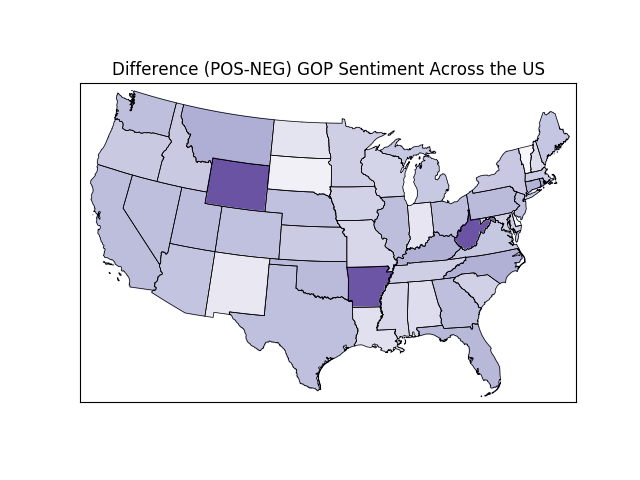
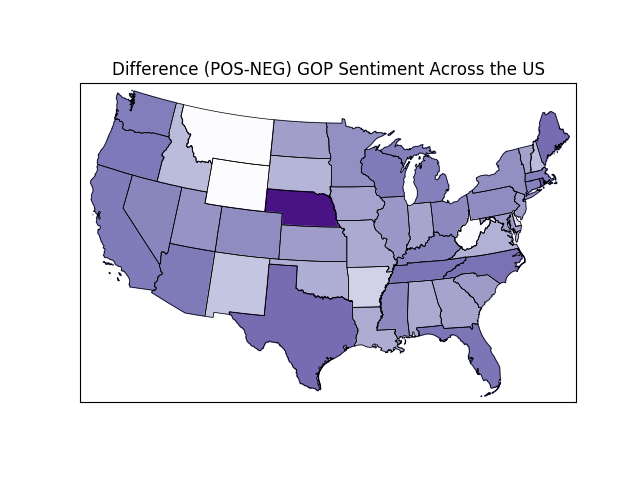
variable names for each df

Changed region(s): [[0.125, 0.1875, 0.9062, 0.8125]]

diff --git a/B/script.py b/B/script.py
@@ -139,7 +139,7 @@ df8 = df8.withColumnRenamed('state', 'author_flair_text')
 df8 = df8.withColumnRenamed('score', 'story_score')
 
 # TASK 9
-df8 = df8.where(df8["body"][0:3] != "&gt")
+df8 = df8.where(df8["body"][0:3] != ">")
 df8 = df8.where(df8["body"].contains("/s") == False)
 
 # Repeat task 4, 5 and 6A
@@ -179,62 +179,78 @@ sample.write.parquet('sample-final.parquet')
 task10_df = sqlContext.read.parquet("final.parquet")
 
 #dem
-#task10_df = sqlContext.read.parquet("final_dem.parquet")
+task10_df_dem = sqlContext.read.parquet("final_dem.parquet")
 
 #gop
-#task10_df = sqlContext.read.parquet("final_gop.parquet")
+task10_df_gop = sqlContext.read.parquet("final_gop.parquet")
 
 sqlContext.registerDataFrameAsTable(task10_df, "task10")
+sqlContext.registerDataFrameAsTable(task10_df_dem, "task10_dem")
+sqlContext.registerDataFrameAsTable(task10_df_gop, "task10_gop")
 
 part_a = sqlContext.sql('select 100*avg(pos) as Positive, 100*avg(neg) as Negative from task10')
+part_a_dem = sqlContext.sql('select 100*avg(pos) as Positive, 100*avg(neg) as Negative from task10_dem')
+part_a_gop = sqlContext.sql('select 100*avg(pos) as Positive, 100*avg(neg) as Negative from task10_gop')
+
 part_a.repartition(1).write.format("com.databricks.spark.csv").option("header", "true").save("task10_part_a.csv")
+part_a_dem.repartition(1).write.format("com.databricks.spark.csv").option("header", "true").save("dem_a.csv")
+part_a_gop.repartition(1).write.format("com.databricks.spark.csv").option("header", "true").save("gop_a.csv")
 
-#dem
-#part_a.repartition(1).write.format("com.databricks.spark.csv").option("header", "true").save("dem_a.csv")
-
-#gop
-#part_a.repartition(1).write.format("com.databricks.spark.csv").option("header", "true").save("gop_a.csv")
-
+#djt
 part_b= sqlContext.sql('select avg(pos) as Positive, avg(neg) as Negative, DATE(FROM_UNIXTIME(created_utc)) as date from task10 group by date ORDER BY date')
-part_b.repartition(1).write.format("com.databricks.spark.csv").option("header", "true").save("task10_part_b.csv")
+part_b.repartition(1).write.format("com.databricks.spark.csv").option("header", "true").save("time_data.csv")
 
 #dem
-#part_b.repartition(1).write.format("com.databricks.spark.csv").option("header", "true").save("time_data_dem.csv")
+part_b_dem= sqlContext.sql('select avg(pos) as Positive, avg(neg) as Negative, DATE(FROM_UNIXTIME(created_utc)) as date from task10_dem group by date ORDER BY date')
+part_b_dem.repartition(1).write.format("com.databricks.spark.csv").option("header", "true").save("time_data_dem.csv")
 
 #gop
-#part_b.repartition(1).write.format("com.databricks.spark.csv").option("header", "true").save("time_data_gop.csv")
+part_b_gop= sqlContext.sql('select avg(pos) as Positive, avg(neg) as Negative, DATE(FROM_UNIXTIME(created_utc)) as date from task10_gop group by date ORDER BY date')
+part_b.repartition(1).write.format("com.databricks.spark.csv").option("header", "true").save("time_data_gop.csv")
 
 
 part_c = sqlContext.sql('select author_flair_text AS state,  100*avg(pos) as Positive, 100*avg(neg) as Negative, 100*avg(pos) - 100*avg(neg) as Difference from task10 where author_flair_text IN (\'Alabama\', \'Alaska\', \'Arizona\', \'Arkansas\', \'California\', \'Colorado\', \'Connecticut\', \'Delaware\', \'District of Columbia\', \'Florida\', \'Georgia\', \'Hawaii\', \'Idaho\', \'Illinois\', \'Indiana\', \'Iowa\', \'Kansas\', \'Kentucky\', \'Louisiana\', \'Maine\', \'Maryland\', \'Massachusetts\', \'Michigan\', \'Minnesota\', \'Mississippi\', \'Missouri\', \'Montana\', \'Nebraska\', \'Nevada\', \'New Hampshire\', \'New Jersey\', \'New Mexico\', \'New York\', \'North Carolina\', \'North Dakota\', \'Ohio\', \'Oklahoma\', \'Oregon\', \'Pennsylvania\', \'Rhode Island\',\'South Carolina\', \'South Dakota\', \'Tennessee\', \'Texas\', \'Utah\', \'Vermont\', \'Virginia\', \'Washington\', \'West Virginia\', \'Wisconsin\', \'Wyoming\') group by author_flair_text ORDER BY author_flair_text')
-part_c.repartition(1).write.format("com.databricks.spark.csv").option("header", "true").save("task10_part_c.csv")
+part_c.repartition(1).write.format("com.databricks.spark.csv").option("header", "true").save("state_data.csv")
 
-#dem
-#part_c.repartition(1).write.format("com.databricks.spark.csv").option("header", "true").save("state_data_dem.csv")
+part_c_dem = sqlContext.sql('select author_flair_text AS state,  100*avg(pos) as Positive, 100*avg(neg) as Negative, 100*avg(pos) - 100*avg(neg) as Difference from task10_dem where author_flair_text IN (\'Alabama\', \'Alaska\', \'Arizona\', \'Arkansas\', \'California\', \'Colorado\', \'Connecticut\', \'Delaware\', \'District of Columbia\', \'Florida\', \'Georgia\', \'Hawaii\', \'Idaho\', \'Illinois\', \'Indiana\', \'Iowa\', \'Kansas\', \'Kentucky\', \'Louisiana\', \'Maine\', \'Maryland\', \'Massachusetts\', \'Michigan\', \'Minnesota\', \'Mississippi\', \'Missouri\', \'Montana\', \'Nebraska\', \'Nevada\', \'New Hampshire\', \'New Jersey\', \'New Mexico\', \'New York\', \'North Carolina\', \'North Dakota\', \'Ohio\', \'Oklahoma\', \'Oregon\', \'Pennsylvania\', \'Rhode Island\',\'South Carolina\', \'South Dakota\', \'Tennessee\', \'Texas\', \'Utah\', \'Vermont\', \'Virginia\', \'Washington\', \'West Virginia\', \'Wisconsin\', \'Wyoming\') group by author_flair_text ORDER BY author_flair_text')
+part_c.repartition(1).write.format("com.databricks.spark.csv").option("header", "true").save("state_data_dem.csv")
 
-#gop
-#part_c.repartition(1).write.format("com.databricks.spark.csv").option("header", "true").save("state_data_gop.csv")
+part_c_gop = sqlContext.sql('select author_flair_text AS state,  100*avg(pos) as Positive, 100*avg(neg) as Negative, 100*avg(pos) - 100*avg(neg) as Difference from task10_gop where author_flair_text IN (\'Alabama\', \'Alaska\', \'Arizona\', \'Arkansas\', \'California\', \'Colorado\', \'Connecticut\', \'Delaware\', \'District of Columbia\', \'Florida\', \'Georgia\', \'Hawaii\', \'Idaho\', \'Illinois\', \'Indiana\', \'Iowa\', \'Kansas\', \'Kentucky\', \'Louisiana\', \'Maine\', \'Maryland\', \'Massachusetts\', \'Michigan\', \'Minnesota\', \'Mississippi\', \'Missouri\', \'Montana\', \'Nebraska\', \'Nevada\', \'New Hampshire\', \'New Jersey\', \'New Mexico\', \'New York\', \'North Carolina\', \'North Dakota\', \'Ohio\', \'Oklahoma\', \'Oregon\', \'Pennsylvania\', \'Rhode Island\',\'South Carolina\', \'South Dakota\', \'Tennessee\', \'Texas\', \'Utah\', \'Vermont\', \'Virginia\', \'Washington\', \'West Virginia\', \'Wisconsin\', \'Wyoming\') group by author_flair_text ORDER BY author_flair_text')
+part_c.repartition(1).write.format("com.databricks.spark.csv").option("header", "true").save("state_data_gop.csv")
 
 
-part_d_by_comment_score = sqlContext.sql('select 100*avg(pos) as Positive, 100*avg(neg) as Negative, comment_score from task10 GROUP BY comment_score')
-part_d_by_comment_score.repartition(1).write.format("com.databricks.spark.csv").option("header", "true").save("task10_part_d_comment_score.csv")
 
-#dem
-#part_d_by_comment_score.repartition(1).write.format("com.databricks.spark.csv").option("header", "true").save("comment_score_dem.csv")
+d_comment_score = sqlContext.sql('select 100*avg(pos) as Positive, 100*avg(neg) as Negative, comment_score from task10 GROUP BY comment_score')
+d_comment_score.repartition(1).write.format("com.databricks.spark.csv").option("header", "true").save("task10_part_d_comment_score.csv")
 
-#gop
-#part_d_by_comment_score.repartition(1).write.format("com.databricks.spark.csv").option("header", "true").save("comment_score_gop.csv")
+d_comment_score_dem = sqlContext.sql('select 100*avg(pos) as Positive, 100*avg(neg) as Negative, comment_score from task10_dem GROUP BY comment_score')
+d_comment_score_dem.repartition(1).write.format("com.databricks.spark.csv").option("header", "true").save("comment_score_dem.csv")
 
-part_d_by_story_score = sqlContext.sql('select 100*avg(pos) as Positive, 100*avg(neg) as Negative, story_score from task10 GROUP BY story_score')
-part_d_by_story_score.repartition(1).write.format("com.databricks.spark.csv").option("header", "true").save("task10_part_d_story_score.csv")
+d_comment_score_gop = sqlContext.sql('select 100*avg(pos) as Positive, 100*avg(neg) as Negative, comment_score from task10_gop GROUP BY comment_score')
+d_comment_score_gop.repartition(1).write.format("com.databricks.spark.csv").option("header", "true").save("comment_score_gop.csv")
 
-#dem
-#part_d_by_story_score.repartition(1).write.format("com.databricks.spark.csv").option("header", "true").save("story_score_dem.csv")
 
-state_posneg_diff = sqlContext.sql('select author_flair_text AS state,  100*avg(pos) - 100*avg(neg) as Difference from task10 where author_flair_text IN (\'Alabama\', \'Alaska\', \'Arizona\', \'Arkansas\', \'California\', \'Colorado\', \'Connecticut\', \'Delaware\', \'District of Columbia\', \'Florida\', \'Georgia\', \'Hawaii\', \'Idaho\', \'Illinois\', \'Indiana\', \'Iowa\', \'Kansas\', \'Kentucky\', \'Louisiana\', \'Maine\', \'Maryland\', \'Massachusetts\', \'Michigan\', \'Minnesota\', \'Mississippi\', \'Missouri\', \'Montana\', \'Nebraska\', \'Nevada\', \'New Hampshire\', \'New Jersey\', \'New Mexico\', \'New York\', \'North Carolina\', \'North Dakota\', \'Ohio\', \'Oklahoma\', \'Oregon\', \'Pennsylvania\', \'Rhode Island\',\'South Carolina\', \'South Dakota\', \'Tennessee\', \'Texas\', \'Utah\', \'Vermont\', \'Virginia\', \'Washington\', \'West Virginia\', \'Wisconsin\', \'Wyoming\') group by author_flair_text ORDER BY author_flair_text')
-state_posneg_diff.repartition(1).write.format("com.databricks.spark.csv").option("header", "true").save("difference.csv")
+d_story_score = sqlContext.sql('select 100*avg(pos) as Positive, 100*avg(neg) as Negative, story_score from task10 GROUP BY story_score')
+d_story_score.repartition(1).write.format("com.databricks.spark.csv").option("header", "true").save("story_score.csv")
 
-#dem
-#state_posneg_diff.repartition(1).write.format("com.databricks.spark.csv").option("header", "true").save("difference_dem.csv")
+d_story_score_dem = sqlContext.sql('select 100*avg(pos) as Positive, 100*avg(neg) as Negative, story_score from task10_dem GROUP BY story_score')
+d_story_score_dem.repartition(1).write.format("com.databricks.spark.csv").option("header", "true").save("story_score_dem.csv")
+
+d_story_score_gop = sqlContext.sql('select 100*avg(pos) as Positive, 100*avg(neg) as Negative, story_score from task10_gop GROUP BY story_score')
+d_story_score_gop.repartition(1).write.format("com.databricks.spark.csv").option("header", "true").save("story_score_gop.csv")
+
+
+posneg_difference = sqlContext.sql('select author_flair_text AS state,  100*avg(pos) - 100*avg(neg) as Difference from task10 where author_flair_text IN (\'Alabama\', \'Alaska\', \'Arizona\', \'Arkansas\', \'California\', \'Colorado\', \'Connecticut\', \'Delaware\', \'District of Columbia\', \'Florida\', \'Georgia\', \'Hawaii\', \'Idaho\', \'Illinois\', \'Indiana\', \'Iowa\', \'Kansas\', \'Kentucky\', \'Louisiana\', \'Maine\', \'Maryland\', \'Massachusetts\', \'Michigan\', \'Minnesota\', \'Mississippi\', \'Missouri\', \'Montana\', \'Nebraska\', \'Nevada\', \'New Hampshire\', \'New Jersey\', \'New Mexico\', \'New York\', \'North Carolina\', \'North Dakota\', \'Ohio\', \'Oklahoma\', \'Oregon\', \'Pennsylvania\', \'Rhode Island\',\'South Carolina\', \'South Dakota\', \'Tennessee\', \'Texas\', \'Utah\', \'Vermont\', \'Virginia\', \'Washington\', \'West Virginia\', \'Wisconsin\', \'Wyoming\') group by author_flair_text ORDER BY author_flair_text')
+
+posneg_difference.repartition(1).write.format("com.databricks.spark.csv").option("header", "true").save("difference.csv")
+
+posneg_difference_dem = sqlContext.sql('select author_flair_text AS state,  100*avg(pos) - 100*avg(neg) as Difference from task10_dem where author_flair_text IN (\'Alabama\', \'Alaska\', \'Arizona\', \'Arkansas\', \'California\', \'Colorado\', \'Connecticut\', \'Delaware\', \'District of Columbia\', \'Florida\', \'Georgia\', \'Hawaii\', \'Idaho\', \'Illinois\', \'Indiana\', \'Iowa\', \'Kansas\', \'Kentucky\', \'Louisiana\', \'Maine\', \'Maryland\', \'Massachusetts\', \'Michigan\', \'Minnesota\', \'Mississippi\', \'Missouri\', \'Montana\', \'Nebraska\', \'Nevada\', \'New Hampshire\', \'New Jersey\', \'New Mexico\', \'New York\', \'North Carolina\', \'North Dakota\', \'Ohio\', \'Oklahoma\', \'Oregon\', \'Pennsylvania\', \'Rhode Island\',\'South Carolina\', \'South Dakota\', \'Tennessee\', \'Texas\', \'Utah\', \'Vermont\', \'Virginia\', \'Washington\', \'West Virginia\', \'Wisconsin\', \'Wyoming\') group by author_flair_text ORDER BY author_flair_text')
+
+posneg_difference_dem.repartition(1).write.format("com.databricks.spark.csv").option("header", "true").save("difference_dem.csv")
+
+posneg_difference_gop = sqlContext.sql('select author_flair_text AS state,  100*avg(pos) - 100*avg(neg) as Difference from task10_gop where author_flair_text IN (\'Alabama\', \'Alaska\', \'Arizona\', \'Arkansas\', \'California\', \'Colorado\', \'Connecticut\', \'Delaware\', \'District of Columbia\', \'Florida\', \'Georgia\', \'Hawaii\', \'Idaho\', \'Illinois\', \'Indiana\', \'Iowa\', \'Kansas\', \'Kentucky\', \'Louisiana\', \'Maine\', \'Maryland\', \'Massachusetts\', \'Michigan\', \'Minnesota\', \'Mississippi\', \'Missouri\', \'Montana\', \'Nebraska\', \'Nevada\', \'New Hampshire\', \'New Jersey\', \'New Mexico\', \'New York\', \'North Carolina\', \'North Dakota\', \'Ohio\', \'Oklahoma\', \'Oregon\', \'Pennsylvania\', \'Rhode Island\',\'South Carolina\', \'South Dakota\', \'Tennessee\', \'Texas\', \'Utah\', \'Vermont\', \'Virginia\', \'Washington\', \'West Virginia\', \'Wisconsin\', \'Wyoming\') group by author_flair_text ORDER BY author_flair_text')
+
+posneg_difference_gop.repartition(1).write.format("com.databricks.spark.csv").option("header", "true").save("difference_gop.csv")
 
 
 most_positive_stories = sqlContext.sql('select link_id as most_positive from task10 GROUP BY link_id ORDER BY avg(pos) DESC LIMIT 10')

diff --git a/B/graphs.py b/B/graphs.py
@@ -39,9 +39,9 @@ PLOT 1: SENTIMENT OVER TIME (TIME SERIES PLOT)
 #djt
 #ts = pd.read_csv("time_data.csv")
 #dem
-ts = pd.read_csv("time_data_dem.csv")
+#ts = pd.read_csv("time_data_dem.csv")
 #gop
-#ts = pd.read_csv("time_data_gop.csv")
+ts = pd.read_csv("time_data_gop.csv")
 
 # Remove erroneous row.
 ts = ts[ts['date'] != '2018-12-31']
@@ -54,19 +54,19 @@ ts.set_index(['date'],inplace=True)
 #ax1 = ts.plot(title="President Trump Sentiment on /r/politics Over Time", color=['green', 'red'], ylim=(0, 1.05))
 
 #dem
-ax1 = ts.plot(title="Democratic Sentiment on /r/politics Over Time", color=['green', 'red'], ylim=(0, 1.05))
+#ax1 = ts.plot(title="Democratic Sentiment on /r/politics Over Time", color=['green', 'red'], ylim=(0, 1.05))
 
 #gop
-#ax1 = ts.plot(title="GOP Sentiment on /r/politics Over Time", color=['green', 'red'], ylim=(0, 1.05))
+ax1 = ts.plot(title="GOP Sentiment on /r/politics Over Time", color=['green', 'red'], ylim=(0, 1.05))
 
 ax1.plot()
 
 #djt
 #plt.savefig("part1.png")
 #dem
-plt.savefig("part1_dem.png")
+#plt.savefig("part1_dem.png")
 #gop
-#plt.savefig("part1_gop.png")
+plt.savefig("part1_gop.png")
 
 plt.clf()
 
@@ -83,9 +83,9 @@ PLOT 2: SENTIMENT BY STATE (POSITIVE AND NEGATIVE SEPARATELY)
 #djt
 #state_data = pd.read_csv("state_data.csv")
 #dem
-state_data = pd.read_csv("state_data_dem.csv")
+#state_data = pd.read_csv("state_data_dem.csv")
 #gop
-#state_data = pd.read_csv("state_data_gop.csv")
+state_data = pd.read_csv("state_data_gop.csv")
 
 """
 You also need to download the following files. Put them somewhere convenient:
@@ -130,9 +130,9 @@ for nshape, seg in enumerate(m.states):
 #djt
 #plt.title('Positive Trump Sentiment Across the US')
 #dem
-plt.title('Positive Democratic Sentiment Across the US')
+#plt.title('Positive Democratic Sentiment Across the US')
 #gop
-#plt.title('Positive GOP Sentiment Across the US')
+plt.title('Positive GOP Sentiment Across the US')
 
 plt.xlabel('')
 plt.ylabel('')
@@ -141,9 +141,9 @@ plt.ylabel('')
 #djt
 #plt.savefig("pos_map.png")
 #dem
-plt.savefig("pos_map_dem.png")
+#plt.savefig("pos_map_dem.png")
 #gop
-#plt.savefig("pos_map_gop.png")
+plt.savefig("pos_map_gop.png")
 
 
 plt.clf()
@@ -179,9 +179,9 @@ for nshape, seg in enumerate(m.states):
 #djt
 #plt.title('Negative Trump Sentiment Across the US')
 #dem
-plt.title('Negative Democratic Sentiment Across the US')
+#plt.title('Negative Democratic Sentiment Across the US')
 #gop
-#plt.title('Negative GOP Sentiment Across the US')
+plt.title('Negative GOP Sentiment Across the US')
 
 plt.xlabel('')
 plt.ylabel('')
@@ -189,9 +189,9 @@ plt.ylabel('')
 #djt
 #plt.savefig("neg_map.png")
 #dem
-plt.savefig("neg_map_dem.png")
+#plt.savefig("neg_map_dem.png")
 #gop
-#plt.savefig("neg_map_gop.png")
+plt.savefig("neg_map_gop.png")
 
 
 plt.clf()
@@ -204,9 +204,9 @@ shp_info = m.readshapefile('st99_d00','states',drawbounds=True)  # No extension 
 #djt
 #diff_state_data = pd.read_csv("difference.csv")
 #dem
-diff_state_data = pd.read_csv("difference_dem.csv")
+#diff_state_data = pd.read_csv("difference_dem.csv")
 #gop
-#diff_state_data = pd.read_csv("difference_gop.csv")
+diff_state_data = pd.read_csv("difference_gop.csv")
 
 
 
@@ -236,9 +236,9 @@ for nshape, seg in enumerate(m.states):
 #djt
 #plt.title('Difference (POS-NEG) Trump Sentiment Across the US')
 #dem
-plt.title('Difference (POS-NEG) Democratic Sentiment Across the US')
+#plt.title('Difference (POS-NEG) Democratic Sentiment Across the US')
 #gop
-#plt.title('Difference (POS-NEG) GOP Sentiment Across the US')
+plt.title('Difference (POS-NEG) GOP Sentiment Across the US')
 
 plt.xlabel('')
 plt.ylabel('')
@@ -246,9 +246,9 @@ plt.ylabel('')
 #djt
 #plt.savefig("diff_map.png")
 #dem
-plt.savefig("diff_map_dem.png")
+#plt.savefig("diff_map_dem.png")
 #gop
-#plt.savefig("diff_map_gop.png")
+plt.savefig("diff_map_gop.png")
 
 
 plt.clf()
@@ -273,9 +273,9 @@ PLOT 5A: SENTIMENT BY STORY SCORE
 #djt
 #story = pd.read_csv("submission_score.csv")
 #dem
-story = pd.read_csv("story_score_dem.csv")
+#story = pd.read_csv("story_score_dem.csv")
 #gop
-#story = pd.read_csv("story_score_gop.csv")
+story = pd.read_csv("story_score_gop.csv")
 
 plt.figure(figsize=(12,5))
 fig = plt.figure()
@@ -288,9 +288,9 @@ plt.legend(loc='lower right');
 #djt
 #plt.xlabel('President Trump Sentiment by Submission Score')
 #dem
-plt.xlabel('Democratic Sentiment by Submission Score')
+#plt.xlabel('Democratic Sentiment by Submission Score')
 #gop
-#plt.xlabel('GOP Sentiment by Submission Score')
+plt.xlabel('GOP Sentiment by Submission Score')
 
 plt.ylabel("Percent Sentiment")
 plt.show()
@@ -298,9 +298,9 @@ plt.show()
 #djt
 #plt.savefig("plot5a.png")
 #dem
-plt.savefig("plot5a_dem.png")
+#plt.savefig("plot5a_dem.png")
 #gop
-#plt.savefig("plot5a_gop.png")
+plt.savefig("plot5a_gop.png")
 
 plt.clf()
 
@@ -317,9 +317,9 @@ PLOT 5B: SENTIMENT BY COMMENT SCORE
 #djt
 #story = pd.read_csv("comment_score.csv")
 #dem
-story = pd.read_csv("comment_score_dem.csv")
+#story = pd.read_csv("comment_score_dem.csv")
 #gop
-#story = pd.read_csv("comment_score_gop.csv")
+story = pd.read_csv("comment_score_gop.csv")
 
 plt.figure(figsize=(12,5))
 fig = plt.figure()
@@ -332,17 +332,17 @@ plt.legend(loc='lower right');
 #djt
 #plt.xlabel('President Trump Sentiment by Comment Score')
 #dem
-plt.xlabel('Democratic Sentiment by Comment Score')
+#plt.xlabel('Democratic Sentiment by Comment Score')
 #gop
-#plt.xlabel('GOP Sentiment by Comment Score')
+plt.xlabel('GOP Sentiment by Comment Score')
 
 plt.ylabel("Percent Sentiment")
 
 #djt
 #plt.savefig("plot5b.png")
 #dem
-plt.savefig("plot5b_dem.png")
+#plt.savefig("plot5b_dem.png")
 #gop
-#plt.savefig("plot5b_gop.png")
+plt.savefig("plot5b_gop.png")
 
 plt.clf()
